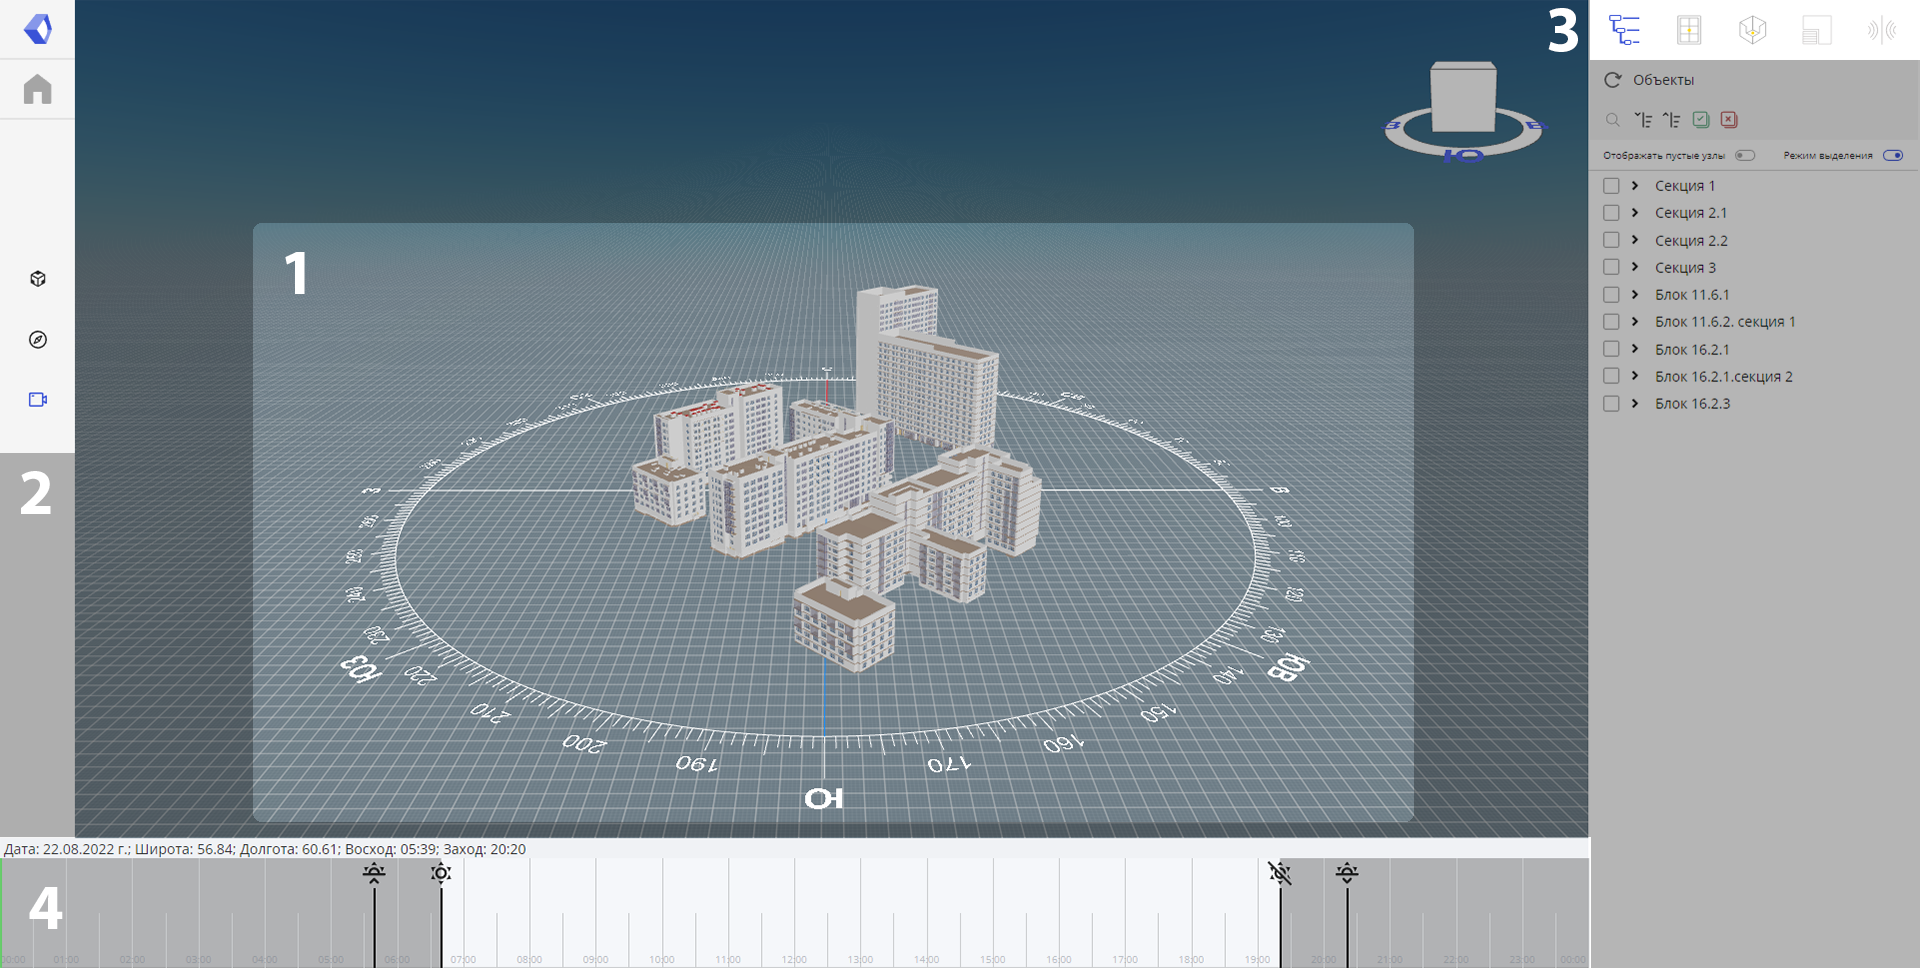
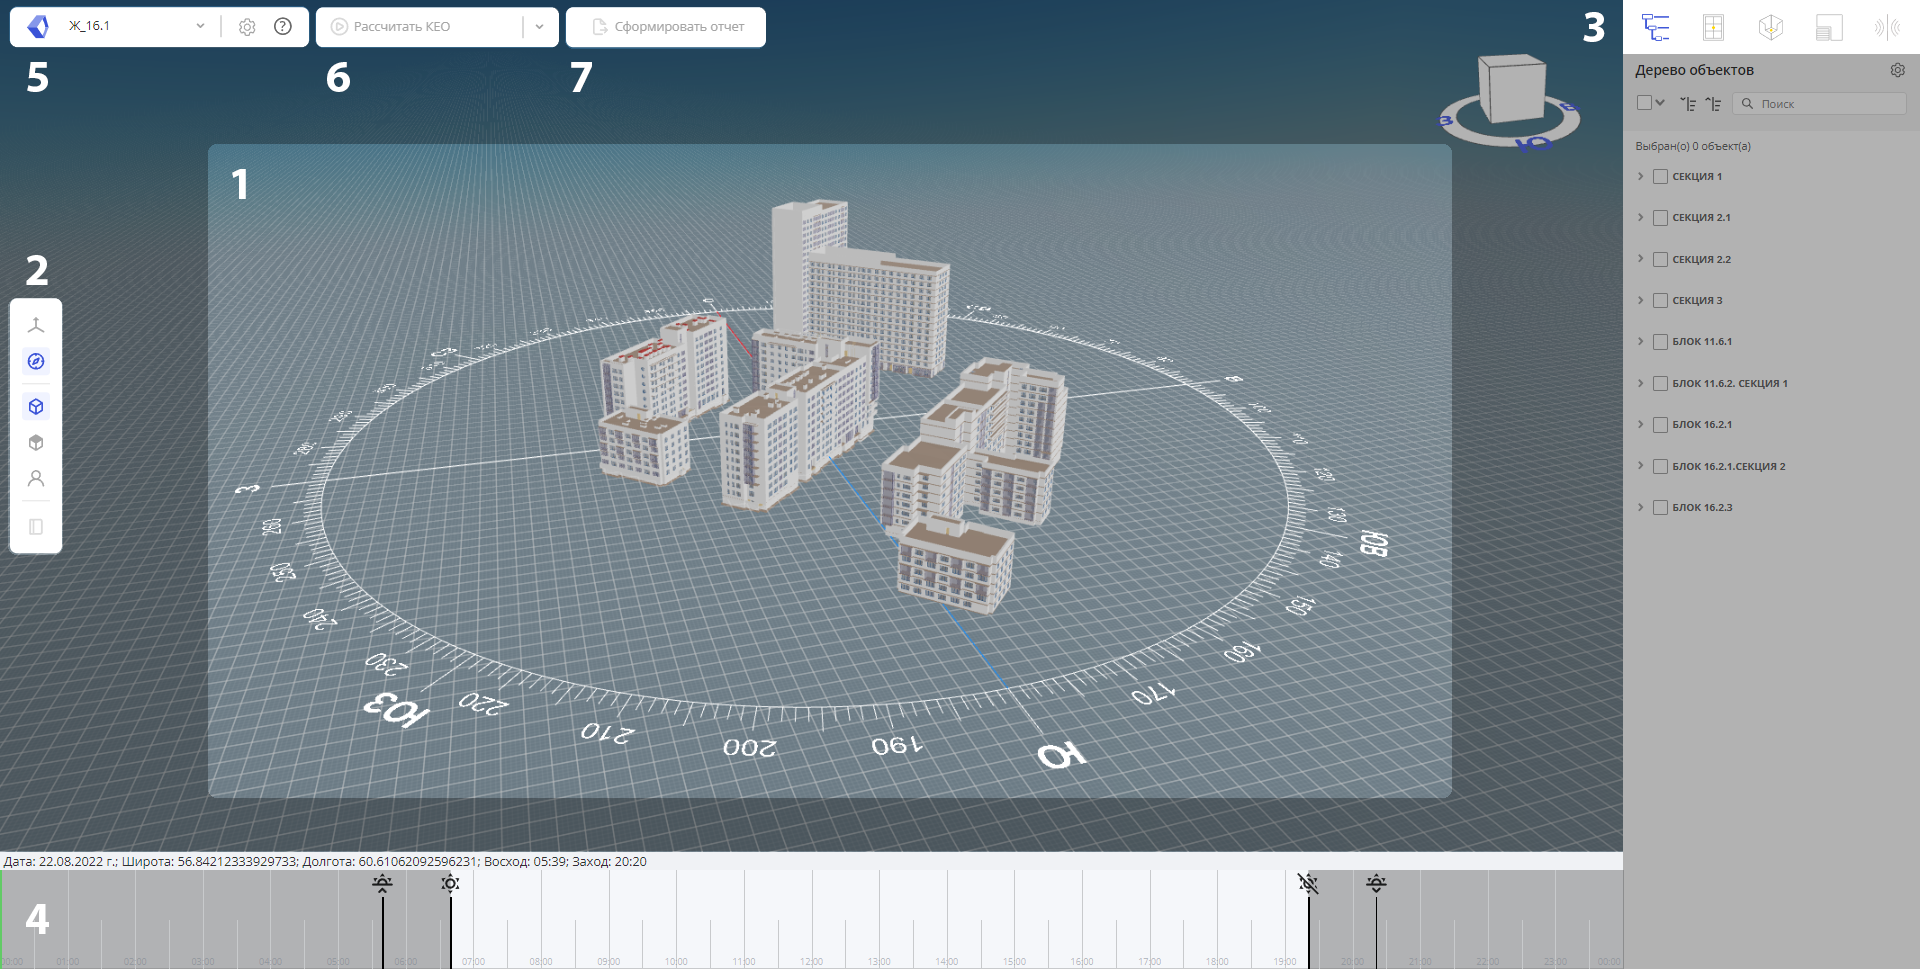
Добавлены картинки и что нового

diff --git a/docs/3. Руководство пользователя/3. Сервис Altec Insolations/2.  Интерфейс сервиса.md b/docs/3. Руководство пользователя/3. Сервис Altec Insolations/2.  Интерфейс сервиса.md
@@ -14,6 +14,9 @@ import modelImage from "@site/docs/resources/frame/model.png";
 *[2] Панель инструментов (в левой части экрана)*  
 *[3] Командная панель (в правой части экрана)*  
 *[4] Инсоляционная линейка (в нижней части экрана)*  
+*[5] Общие настройки (в верхней части экрана)*  
+*[6] Выбор расчета (в верхей части экрана)*  
+*[7] Формирование отчета (в верхней части экрана)*  
 
 В сцене - центральной части экрана расположена только что загруженная модель [1]. Она отображается внутри розы ветров - в круговой линейке с обозначением сторон света (красная - север, синяя - юг).
 
@@ -27,29 +30,27 @@ import modelImage from "@site/docs/resources/frame/model.png";
 
 **Инструменты:**
  
-![](../../resources/sech.png) *Сечение* позволяет изучить модель, планировки.
+![](../../resources/sech1.png) *Сечение* позволяет изучить модель, планировки.
 
 
-![](../../resources/rk.png) Клик по иконке *“Роза компаса”*  позволяет отключать и включать розу ветров на виде. 
-
-
-![](../../resources/camera.png) Вы можете выбрать режим камеры при наведении на иконку. 
+![](../../resources/rc.png) Клик по иконке *“Роза компаса”*  позволяет отключать и включать розу ветров на виде. 
 
 
 **Режимы камеры:**
 
-![](../../resources/orto.png) *“Орто камера”*
-включает ортогональный вид на модель сверху
-
-Перемещение по сцене осуществляется с помощью зажатия колесика мыши и перемещения курсора. Для приближения - отдаления прокручиваем колесико мыши.
-
-![](../../resources/ark.png) *“Арк камера”* 
+![](../../resources/ark.png) *“Арк камера”* (активна по умолчанию)
 активирует перспективу модели
 
 В режиме *“Арк камера”* в главном видовом окне вращение модели осуществляется относительно центра (положения курсора) по сфере через одновременное зажатие колёсика мыши и клавиши “Shift”. Для смещения вправо-влево необходимо зажать колёсико мыши в любой точке и осуществить перемещение.  
 В правом верхнем углу видовой куб (рис. 27), позволяющий осуществлять навигацию по модели. Можно менять видовые кадры, кликая левой кнопкой мыши либо по сторонам света, либо по граням и ребрам куба. 
 
 <image image={kubImage} width="20%" title="Рисунок 27 - Видовой куб"/>
+
+
+![](../../resources/orto.png) *“Орто камера”*
+включает ортогональный вид на модель сверху
+
+Перемещение по сцене осуществляется с помощью зажатия колесика мыши и перемещения курсора. Для приближения - отдаления прокручиваем колесико мыши.
 
 
 ![](../../resources/free.png) *“Свободная камера”* 

diff --git a/docs/8. Что нового/4. Релиз от 12.10.2022.md b/docs/8. Что нового/4. Релиз от 12.10.2022.md
@@ -1,0 +1,41 @@
+***
+## Инсоляция
+
+**Вывод результатов расчета инсоляции:**
+
+- Улучшено перемещение по колесу мыши в дереве результатов;
+- Добавлены фильтры результатов инсоляции;
+- Добавлена сортировка результатов инсоляции.
+
+*Исправлены ошибки:*
+
+- Исправление работы с настройками отображения результатов - мгновенный отклик на их изменение.
+
+
+## КЕО
+
+**Вывод результатов расчета КЕО:**
+
+- Добавлены фильтры для вывода результатов;
+- Добавлена сортировка для вывода результатов;
+
+## Отчет
+
+**Блок 6 "Приложения" (Нарезка сечений)**
+- Добавлена расчетная точка по КЕО при формировании сечения.
+
+*Исправлены ошибки:*
+- Исправление некорректного формирования отчета по КЕО для нескольких зданий.
+
+## Экспортер
+- Доработана очистка файлов старой версии лаунчера при обновлении;
+- Переработана проверка сети и сообщения об отсутствии доступа к серверу;
+- Улучшен алгоритм  поиска помещений по точкам;
+- Улучшен алгоритм поиска и расположения расчётных точек у окон.
+
+*Исправлены ошибки:*
+
+- Исправлено положение геометрии в сцене у некоторых составных семейств окон.
+
+
+
